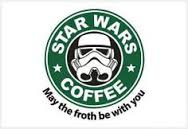
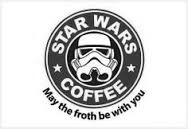
ClientPage

diff --git a/pages/clients.html b/pages/clients.html
@@ -98,16 +98,16 @@
 
             <div class="row cv">
               <div class="col-sm-3">
-                  <img src="../img/clientBrands/calories.jpg" class="img-responsive desaturate thumbnail" alt ="" height= "200px;" width="200px;">
+                  <img src="../img/clientBrands/calories.jpg" class="img-responsive thumbnail" alt ="" height= "200px;" width="200px;">
               </div>
               <div class="col-sm-3">
-                  <img src="../img/clientBrands/SWC.jpg" class="img-responsive desaturate thumbnail" alt ="" height= "200px;" width="200px;">
+                  <img src="../img/clientBrands/SWC.jpg" class="img-responsive thumbnail" alt ="" height= "200px;" width="200px;">
               </div>
               <div class="col-sm-3">
-                  <img src="../img/clientBrands/elvis.jpg" class="img-responsive desaturate thumbnail" alt ="" height= "200px;" width="200px;">
+                  <img src="../img/clientBrands/elvis.jpg" class="img-responsive thumbnail" alt ="" height= "200px;" width="200px;">
               </div>
               <div class="col-sm-3">
-                  <img src="../img/clientBrands/oops.jpg" class="img-responsive desaturate thumbnail" alt ="" height= "200px;" width="200px;">
+                  <img src="../img/clientBrands/oops.jpg" class="img-responsive thumbnail" alt ="" height= "200px;" width="200px;">
               </div>
             </div>
 
@@ -115,10 +115,10 @@
 
             <div class="row cv">
               <div class="col-sm-3">
-                <img src="../img/clientBrands/seit.jpg" class="img-responsive desaturate thumbnail" alt ="" height= "200px;" width="200px;">
+                <img src="../img/clientBrands/seit.jpg" class="img-responsive thumbnail" alt ="" height= "200px;" width="200px;">
               </div>
               <div class="col-sm-3">
-                  <img src="../img/clientBrands/catVideos.jpg" class="img-responsive desaturate thumbnail" alt ="" height= "200px;" width="200px;">
+                  <img src="../img/clientBrands/catVideos.jpg" class="img-responsive thumbnail" alt ="" height= "200px;" width="200px;">
               </div>
               <div class="col-sm-3"></div>
               <div class="col-sm-3"></div>
